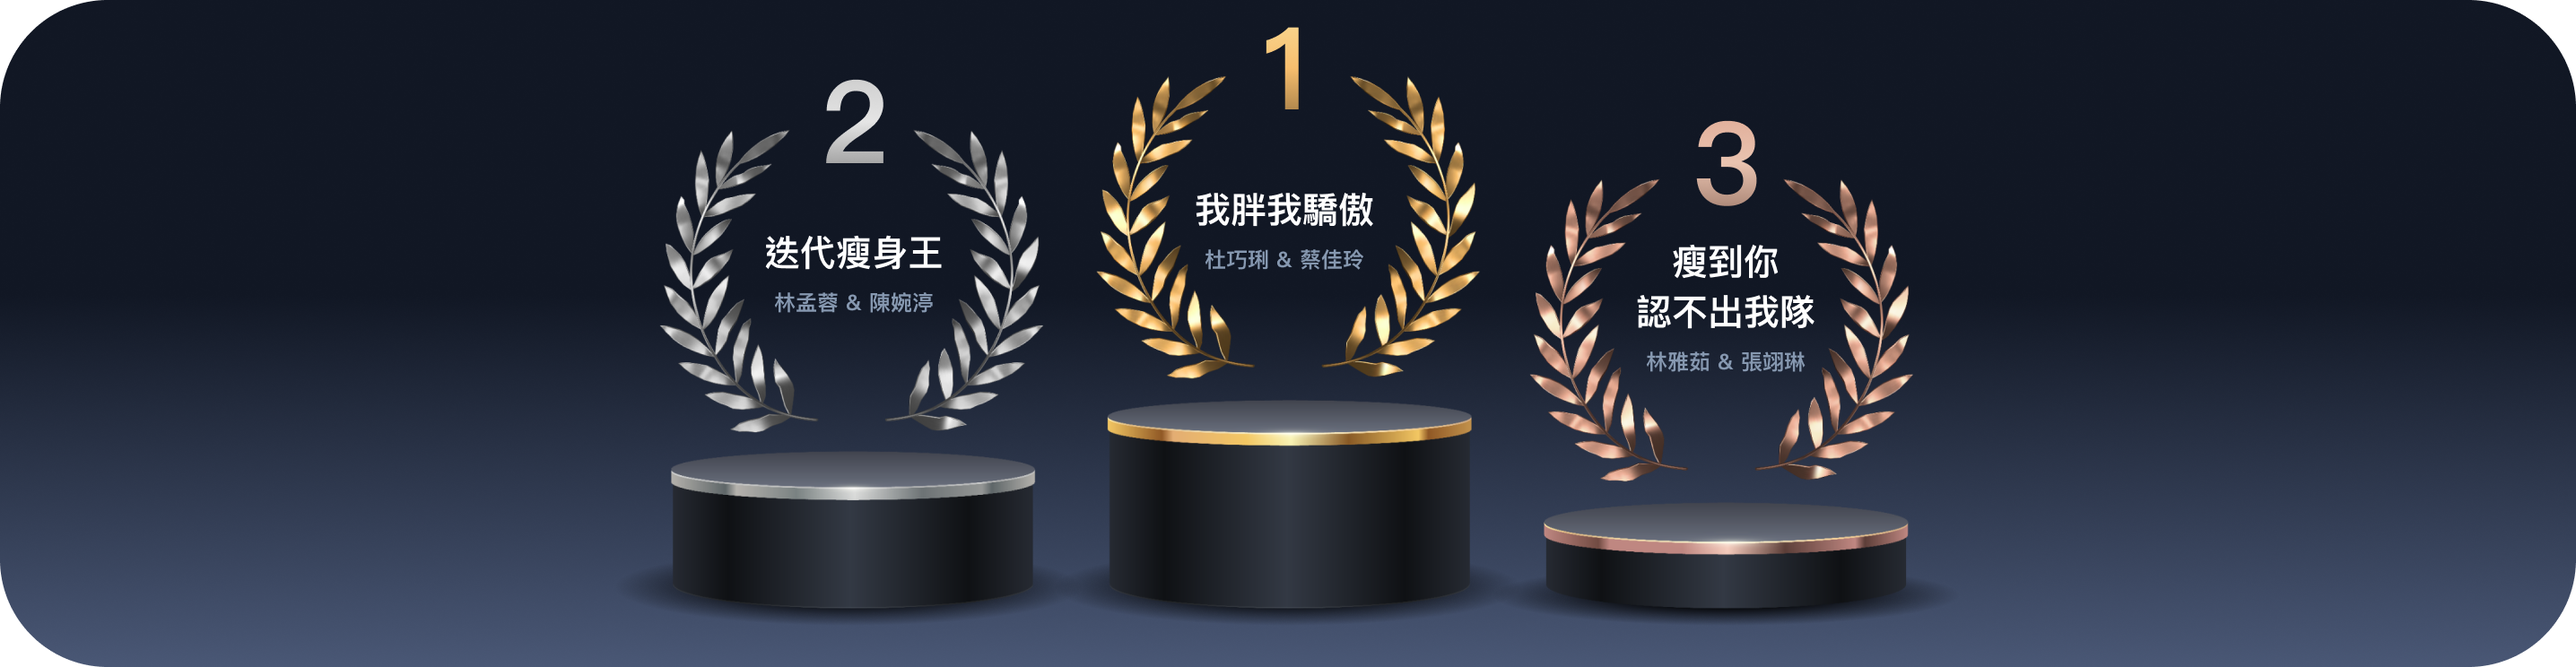
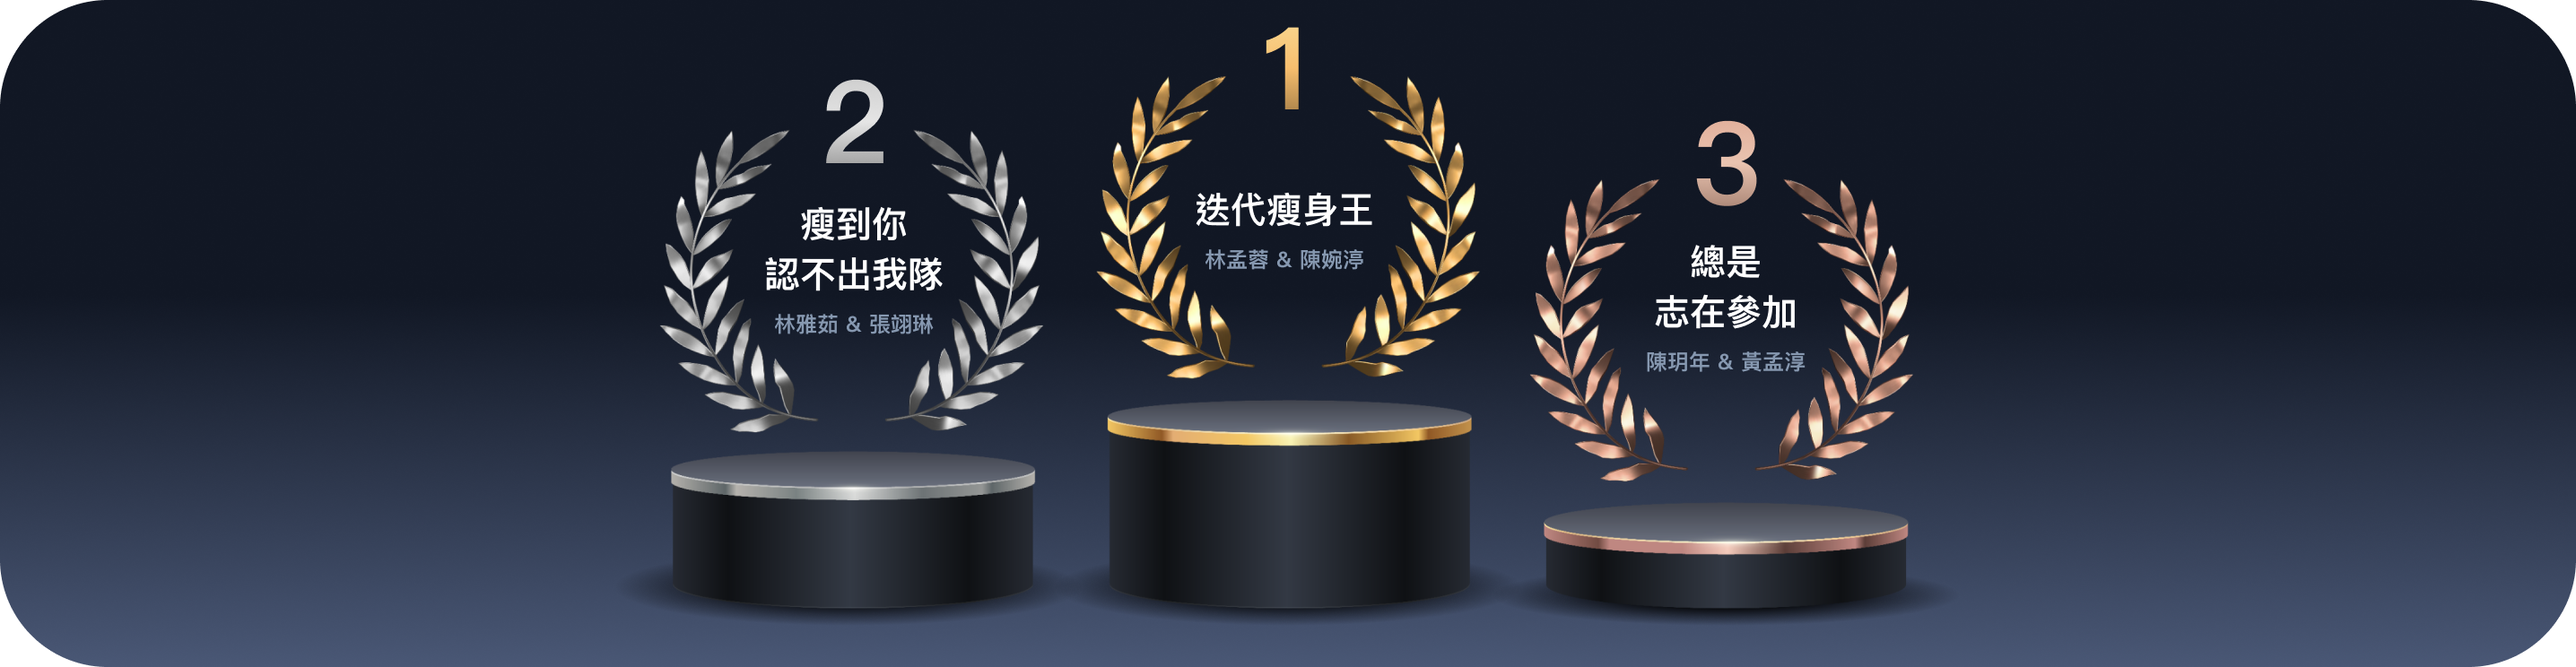
corrected ranking

diff --git a/constants.ts b/constants.ts
@@ -11,7 +11,7 @@ export const TEAMS_DATA: Team[] = [
   { id: 4, name: '吱吱唧唧嘰吱', gender: 'female', points: 0.0, members: ['劉凡瑀', '施捷如'], weekly: [1,2,2,1,2,1,2,2], bonusW2: 4, bonusW6: 2, bonusW8: 5.90},
   { id: 5, name: '我們只是胖著玩玩', gender: 'female', points: 0.0, members: ['詹壬菡', '林玉涵'], weekly: [1,1,2,1,1,2,2,1], bonusW2: 4, bonusW6: 2, bonusW8: 3.60},
   { id: 6, name: '瘦到你認不出我隊', gender: 'female', points: 0.0, members: ['林雅茹', '張翊琳'], weekly: [2,2,2,2,2,2,2,2], bonusW2: 4, bonusW6: 2, bonusW8: 13.50},
-  { id: 7, name: '我胖我驕傲', gender: 'female', points: 0.0, members: ['杜巧琍', '蔡佳玲'], weekly: [2,2,2,2,2,2,2,2], bonusW2: 4, bonusW6: 2, bonusW8: 22.10},
+  { id: 7, name: '我胖我驕傲', gender: 'female', points: 0.0, members: ['杜巧琍', '蔡佳玲'], weekly: [2,2,2,2,2,2,2,2], bonusW2: 4, bonusW6: 2, bonusW8: -10.60},
   { id: 8, name: '總是志在參加', gender: 'female', points: 0.0, members: ['陳玥年', '黃孟淳'], weekly: [2,2,2,2,2,2,2,2], bonusW2: 4, bonusW6: 2, bonusW8: 10.60},
   { id: 9, name: '祐要運動到嫣嫣一息ㄌ', gender: 'female', points: 0.0, members: ['蘇祐萱', '李嫣容'], weekly: [2,2,2,2,2,2,2,2], bonusW2: 4, bonusW6: 2, bonusW8: 4.40},
   { id: 10, name: 'GK動態提脂', gender: 'female', points: 0.0, members: ['林怡汝', '游季婕'], weekly: [2,2,2,2,2,2,2,2], bonusW2: 4, bonusW6: 2, bonusW8: 10.50},
